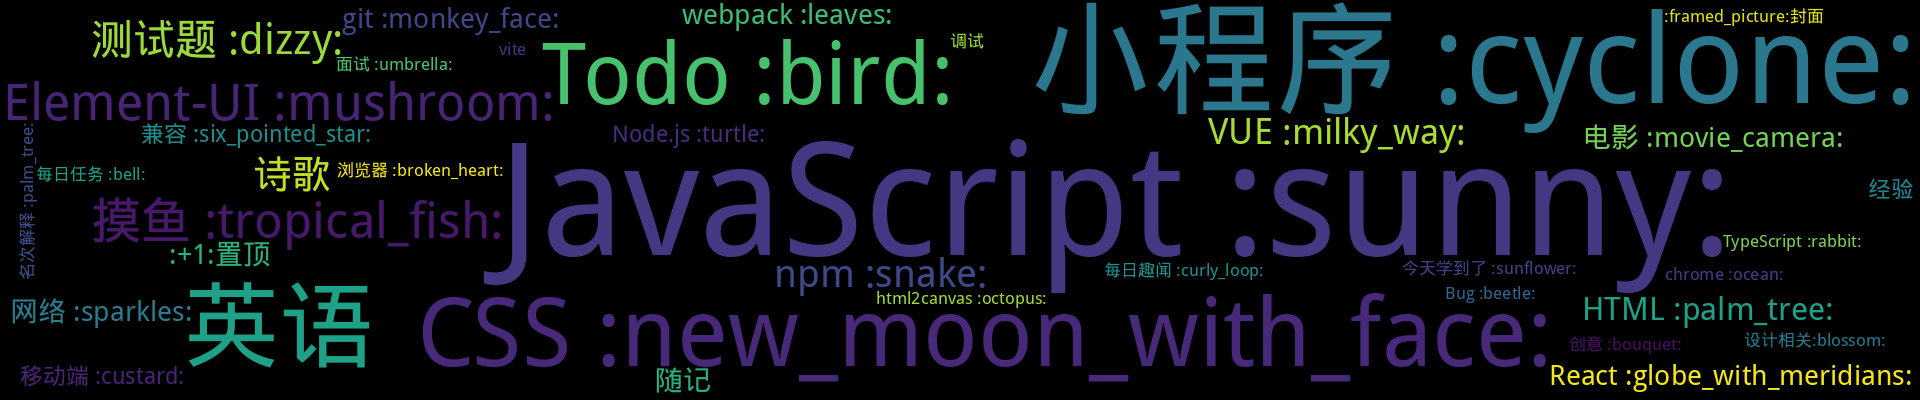
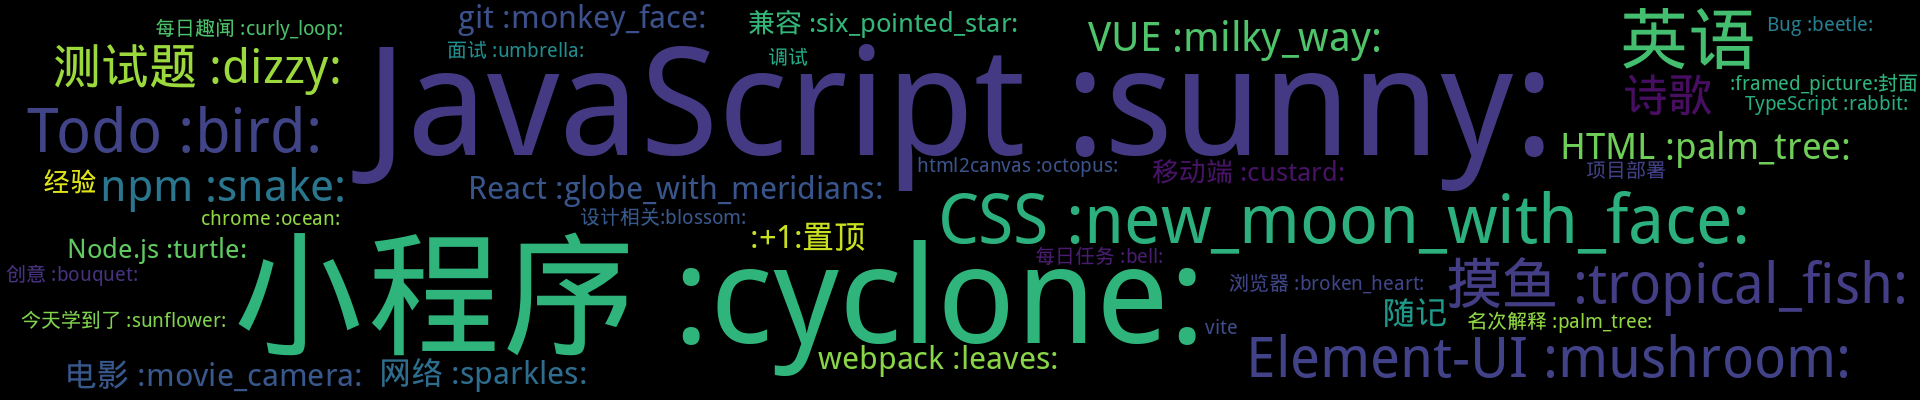
Update from Github Action

diff --git a/README.md b/README.md
@@ -1,9 +1,9 @@
 
 
 <p align='center'>
-    <img src="https://badgen.net/badge/labels/42"/>
+    <img src="https://badgen.net/badge/labels/43"/>
     <img src="https://badgen.net/github/issues/smileyby/ghiblog"/>
-    <img src="https://badgen.net/badge/last-commit/2021-11-06 05:31:06"/>
+    <img src="https://badgen.net/badge/last-commit/2021-11-09 01:58:04"/>
     <img src="https://badgen.net/github/forks/smileyby/ghiblog"/>
     <img src="https://badgen.net/github/stars/smileyby/ghiblog"/>
     <img src="https://badgen.net/github/watchers/smileyby/ghiblog"/>
@@ -35,6 +35,27 @@
 - [你想住在中国哪里？（转自阮一峰周刊第180期）](https://github.com/smileyby/notes/issues/167)  <sup>0 :speech_balloon:</sup>  	 
 - [掘金小册：小程序底层框架实现原理-笔记](https://github.com/smileyby/notes/issues/165)  <sup>0 :speech_balloon:</sup>  	 
 ## 最新 :new: 
+
+#### [项目部署遇到的问题](https://github.com/smileyby/notes/issues/184) <sup>0 :speech_balloon:</sup> 	 2021-11-09 01:57:36
+
+:label: : [项目部署](https://github.com/smileyby/ghiblog/labels/%E9%A1%B9%E7%9B%AE%E9%83%A8%E7%BD%B2)
+
+## mysql 配置
+
+> 针对 mysql 5.7.x 版本重置密码
+
+```mysql
+# 查看密码
+grep 'temporary password' /var/log/mysqld.log
+# 密码登录 
+mysql -u root -p
+# 使用数据库
+use mys
+
+[更多>>>](https://github.com/smileyby/notes/issues/184)
+
+---
+
 
 #### [电影：藏草青青](https://github.com/smileyby/notes/issues/183) <sup>0 :speech_balloon:</sup> 	 2021-11-06 05:30:40
 
@@ -78,17 +99,6 @@ https://f2e.tech/  阿里出品
 
 
 [更多>>>](https://github.com/smileyby/notes/issues/180)
-
----
-
-
-#### [useEffect  useState useMemo  作用](https://github.com/smileyby/notes/issues/179) <sup>0 :speech_balloon:</sup> 	 2021-11-04 09:10:28
-
-:label: : [React :globe_with_meridians:](https://github.com/smileyby/ghiblog/labels/React%20%3Aglobe_with_meridians%3A), [Todo :bird:](https://github.com/smileyby/ghiblog/labels/Todo%20%3Abird%3A)
-
-
-
-[更多>>>](https://github.com/smileyby/notes/issues/179)
 
 ---
 
@@ -582,6 +592,14 @@ https://f2e.tech/  阿里出品
 <summary>面试 :umbrella:	<sup>1:newspaper:</sup></summary>
 
 - [面试：作用域](https://github.com/smileyby/notes/issues/76)  <sup>0 :speech_balloon:</sup>  	 
+
+
+</details>
+
+<details>
+<summary>项目部署	<sup>1:newspaper:</sup></summary>
+
+- [项目部署遇到的问题](https://github.com/smileyby/notes/issues/184)  <sup>0 :speech_balloon:</sup>  	 
 
 
 </details>
